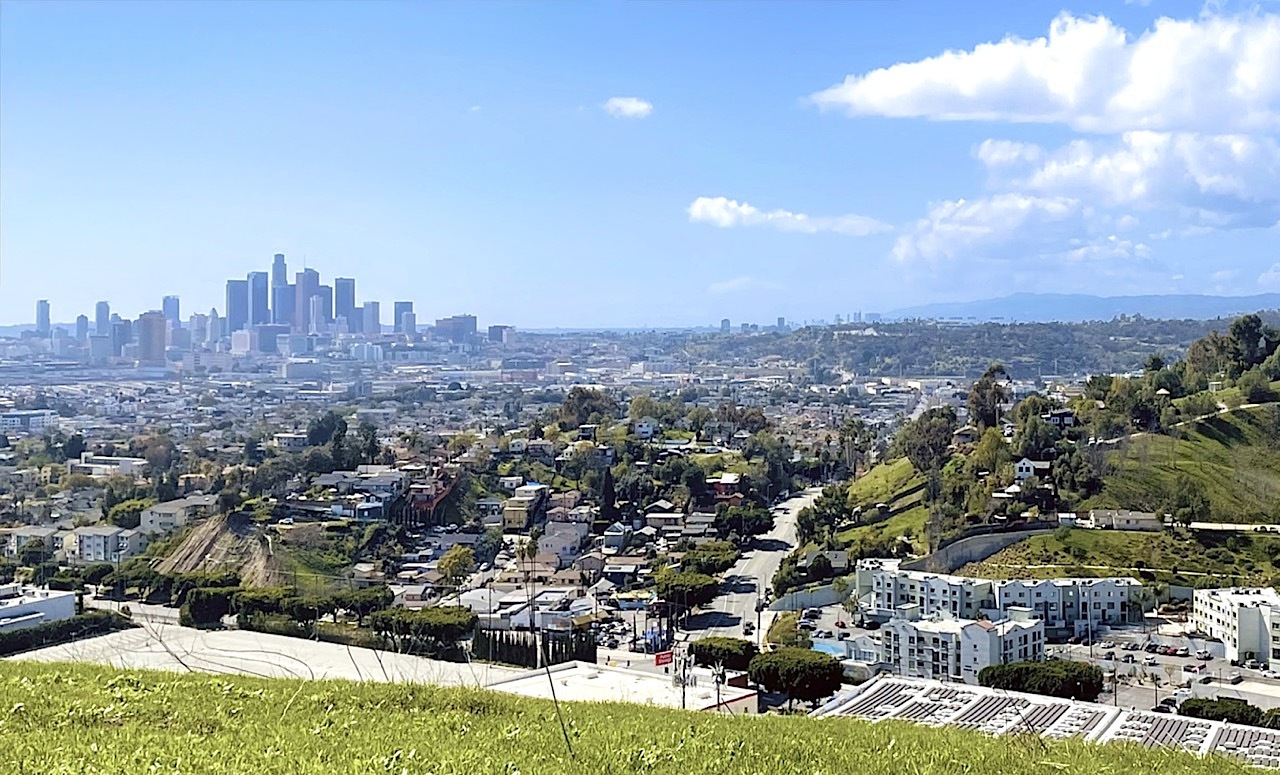
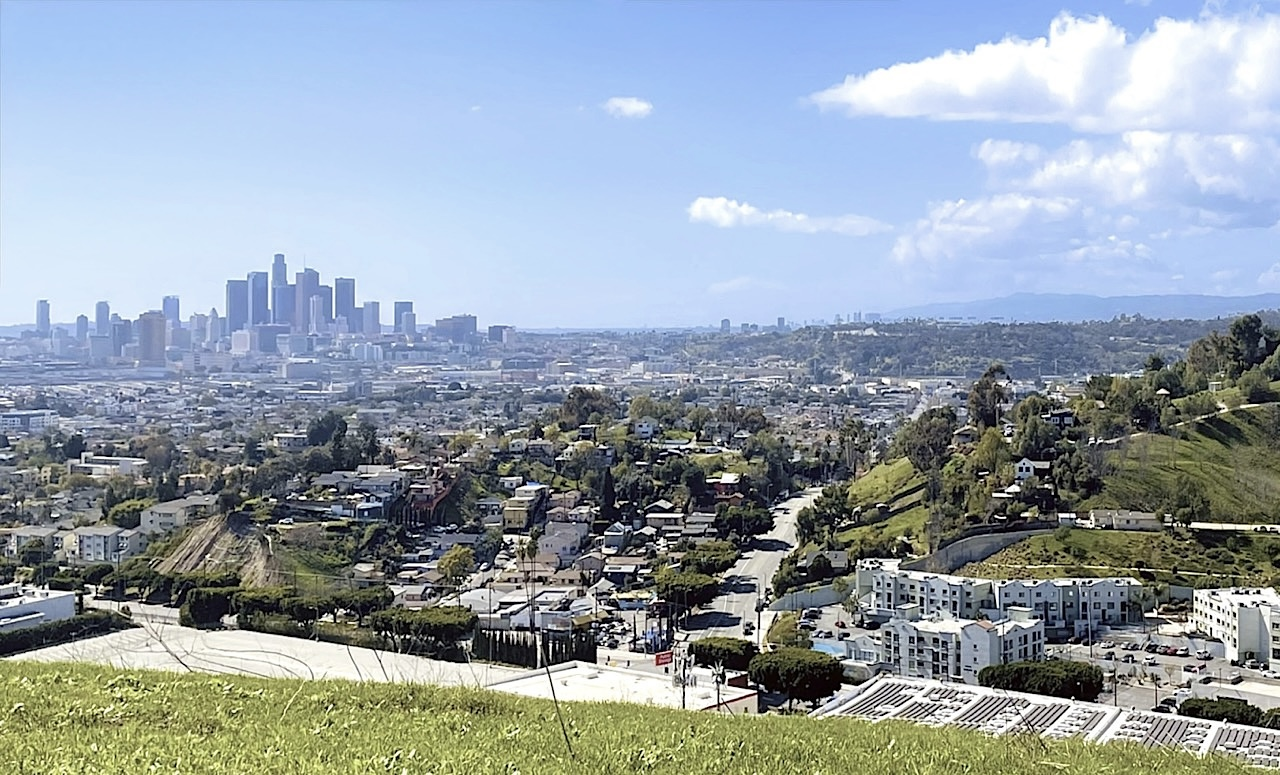
Updates NELA content

diff --git a/places/data/nela-eastside.html b/places/data/nela-eastside.html
@@ -10,7 +10,7 @@
   </figure>
 
   <p>
-    Sitting across the <a href="https://en.wikipedia.org/wiki/Los_Angeles_River" target="_blank">LA River <i class="fa-solid fa-arrow-up-right-from-square" title="Opens in a new tab"></i></a> from  <a href="#la/central-la">Central LA</a> neighborhoods like <a href="#la/central-la/los-feliz">Los Feliz</a>, <a href="#la/central-la/silver-lake">Silver Lake</a>, and <a href="#la/central-la/frogtown">Frogtown</a>, <strong>Northeast LA</strong> is a hidden gem of the city that blends lush nature with a vibrant arts and food scene. Neighborhoods nestled in lush hills like <a href="#la/nela-eastside/montecito-heights">Montecito Heights</a>, <a href="#la/nela-eastside/monterey-hills-hermon">Monterey Hills</a>, and <a href="#la/nela-eastside/mt-washington">Mount Washington</a> offer sweeping views of the <a href="#la/central-la/dtla">Downtown LA</a> and the region, from unique angles found in Northeast LA, while the revitalized LA River serves a defining feature of areas like <a href="#la/nela-eastside/atwater">Atwater Village</a> and <a href="#la/nela-eastside/glassell-cypress">Cypress Park</a>, boasting riverside trails and green spaces. In <a href="#la/nela-eastside/highland-park">Highland Park</a>, <a href="#la/nela-eastside/eagle-rock">Eagle Rock</a>, and <a href="#la/nela-eastside/glassell-cypress">Glassell Park</a>, you'll find one-of-a-kind restaurants and bars that reflect the creative, ever-evolving culture of the city.
+    Sitting across the <a href="https://en.wikipedia.org/wiki/Los_Angeles_River" target="_blank">LA River <i class="fa-solid fa-arrow-up-right-from-square" title="Opens in a new tab"></i></a> from  <a href="#la/central-la">Central LA</a> neighborhoods like <a href="#la/central-la/los-feliz">Los Feliz</a>, <a href="#la/central-la/silver-lake">Silver Lake</a>, and <a href="#la/central-la/frogtown">Frogtown</a>, <strong>Northeast LA</strong> is a hidden gem of the city that blends lush nature with a vibrant arts and food scene. Neighborhoods nestled in lush hills like <a href="#la/nela-eastside/montecito-heights">Montecito Heights</a>, <a href="#la/nela-eastside/monterey-hills-hermon">Monterey Hills</a>, and <a href="#la/nela-eastside/mt-washington">Mount Washington</a> offer sweeping views of the <a href="#la/central-la/dtla">Downtown LA</a> and the region, from unique angles found in Northeast LA, while the revitalized LA River serves a defining feature of areas like <a href="#la/nela-eastside/atwater">Atwater Village</a> and <a href="#la/nela-eastside/glassell-cypress">Cypress Park</a>, boasting riverside trails and green spaces. In <a href="#la/nela-eastside/highland-park">Highland Park</a>, <a href="#la/nela-eastside/eagle-rock">Eagle Rock</a>, and <a href="#la/nela-eastside/glassell-cypress">Glassell Park</a>, you'll find one-of-a-kind restaurants and bars that reflect the city's creative, ever-evolving culture.
   </p>
 
   <hr style="clear: unset; margin-bottom: 20px;" />
